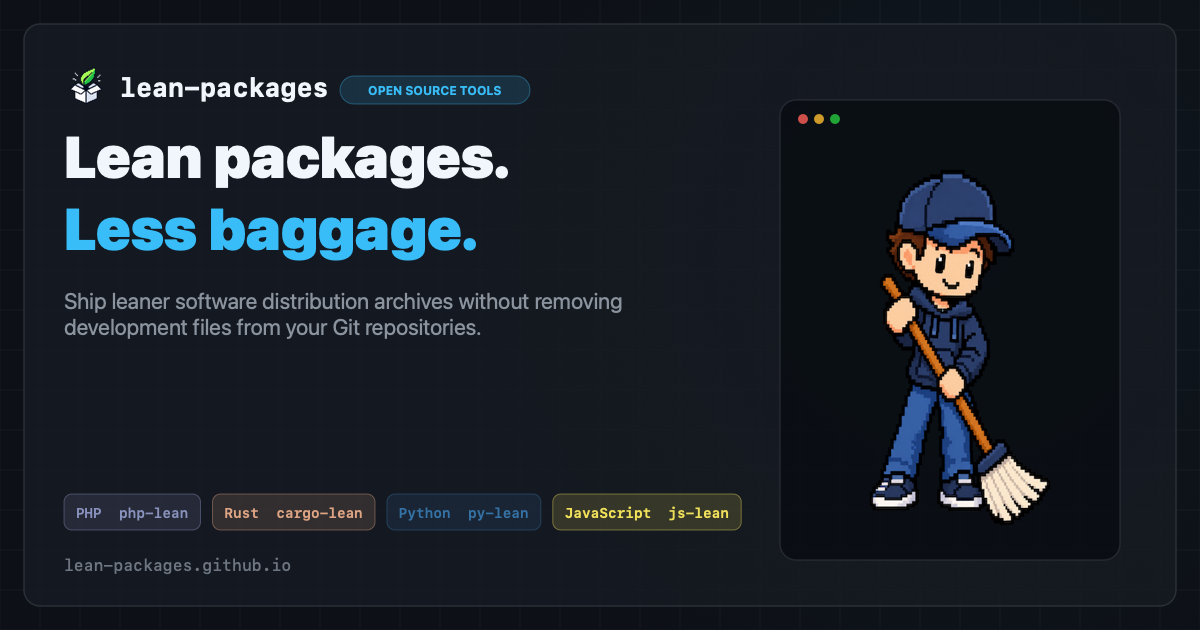
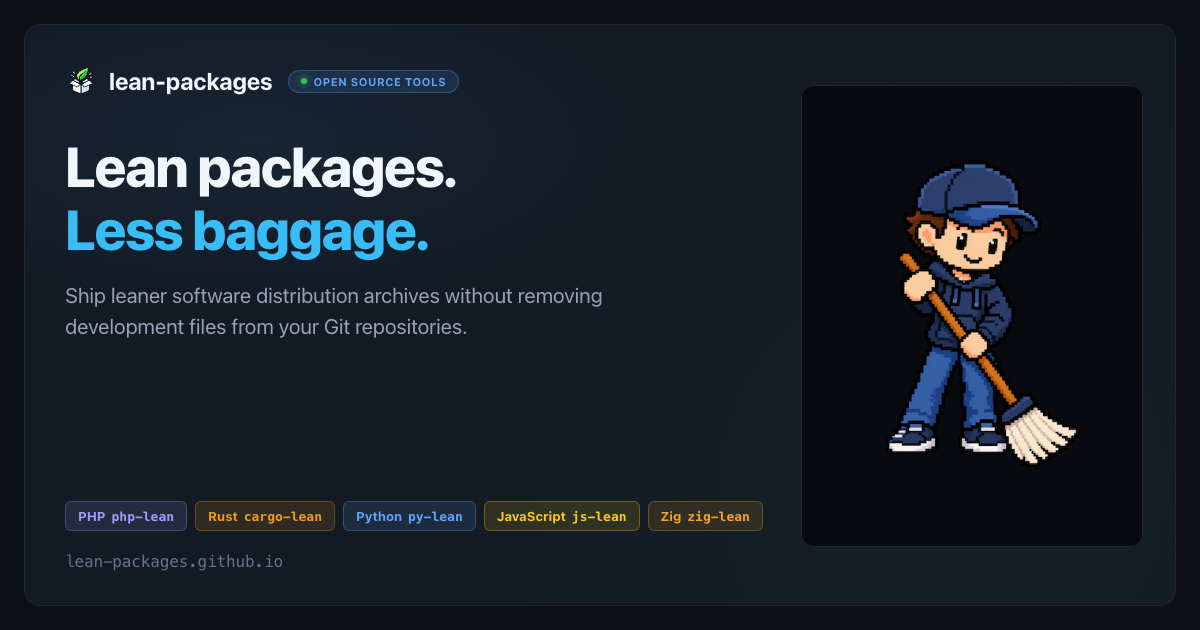
feat: add zig-lean

diff --git a/index.html b/index.html
@@ -6,7 +6,7 @@
   <!-- Primary Meta Tags -->
   <title>lean-packages — Less baggage. Leaner software distributions.</title>
   <meta name="title" content="lean-packages — Less baggage. Leaner software distributions.">
-  <meta name="description" content="A collection of open-source developer tools helping developers ship leaner software distribution archives across PHP, Rust, Python, and JavaScript.">
+  <meta name="description" content="A collection of open-source developer tools helping developers ship leaner software distribution archives across PHP, Rust, Python, JavaScript, and Zig.">
   <meta name="theme-color" content="#0d1117">
   <link rel="canonical" href="https://lean-packages.github.io/">
 
@@ -15,7 +15,7 @@
   <meta property="og:url" content="https://lean-packages.github.io/">
   <meta property="og:site_name" content="lean-packages">
   <meta property="og:title" content="lean-packages — Less baggage. Leaner software distributions.">
-  <meta property="og:description" content="A collection of open-source developer tools helping developers ship leaner software distribution archives across PHP, Rust, Python, and JavaScript.">
+  <meta property="og:description" content="A collection of open-source developer tools helping developers ship leaner software distribution archives across PHP, Rust, Python, JavaScript, and Zig.">
   <meta property="og:image" content="https://lean-packages.github.io/assets/og-image.png">
   <meta property="og:image:secure_url" content="https://lean-packages.github.io/assets/og-image.png">
   <meta property="og:image:type" content="image/png">
@@ -27,7 +27,7 @@
   <meta name="twitter:card" content="summary_large_image">
   <meta name="twitter:url" content="https://lean-packages.github.io/">
   <meta name="twitter:title" content="lean-packages — Less baggage. Leaner software distributions.">
-  <meta name="twitter:description" content="A collection of open-source developer tools helping developers ship leaner software distribution archives across PHP, Rust, Python, and JavaScript.">
+  <meta name="twitter:description" content="A collection of open-source developer tools helping developers ship leaner software distribution archives across PHP, Rust, Python, JavaScript, and Zig.">
   <meta name="twitter:image" content="https://lean-packages.github.io/assets/og-image.png">
   <meta name="twitter:image:alt" content="lean-packages — Open-source developer tools for lean software distribution archives">
 
@@ -152,6 +152,7 @@
                 <button class="terminal-tab" role="tab" aria-selected="false" data-term-target="term-rust">Rust</button>
                 <button class="terminal-tab" role="tab" aria-selected="false" data-term-target="term-python">Python</button>
                 <button class="terminal-tab" role="tab" aria-selected="false" data-term-target="term-javascript">JavaScript</button>
+                <button class="terminal-tab" role="tab" aria-selected="false" data-term-target="term-zig">Zig</button>
               </div>
             </div>
 
@@ -212,6 +213,21 @@
                 <div class="diff-item diff-remove">- vitest.config.ts</div>
               </div>
               <div class="terminal-line t-success"><span class="t-indicator">✓</span> Package archive size reduced: <span class="t-stat">3.2 MB → 210 KB (-93.4%)</span></div>
+              <div class="terminal-line"><span class="t-prompt">$</span> <span class="t-cursor">_</span></div>
+            </div>
+
+            <!-- Zig Demo -->
+            <div class="terminal-body font-mono terminal-panel" id="term-zig" role="tabpanel" aria-label="Zig zig-lean demonstration" hidden>
+              <div class="terminal-line"><span class="t-prompt">$</span> <span class="t-cmd">zig-lean lint</span> <span class="t-flag">--strict</span></div>
+              <div class="terminal-output t-muted">Scanning build.zig.zon .paths allowlist and package directory...</div>
+              <div class="terminal-line t-warn">Found 4 non-runtime items unexcluded from .paths:</div>
+              <div class="terminal-diff">
+                <div class="diff-item diff-remove">- .github/</div>
+                <div class="diff-item diff-remove">- tests/</div>
+                <div class="diff-item diff-remove">- zig-cache/</div>
+                <div class="diff-item diff-remove">- build.zig.zon.draft</div>
+              </div>
+              <div class="terminal-line t-success"><span class="t-indicator">✓</span> Package archive size reduced: <span class="t-stat">1.8 MB → 120 KB (-93.3%)</span></div>
               <div class="terminal-line"><span class="t-prompt">$</span> <span class="t-cursor">_</span></div>
             </div>
 
@@ -276,6 +292,17 @@
               <h3 class="eco-title">js-lean</h3>
               <p class="eco-desc">Audits <code>package.json</code> <code>files</code> allowlists and <code>.npmignore</code> files to maintain clean npm releases.</p>
               <div class="eco-target font-mono">package.json / .npmignore</div>
+            </div>
+          </a>
+
+          <a href="#project-zig" class="eco-card" data-lang="zig">
+            <div class="eco-icon-wrap zig-theme">
+              <span class="eco-lang-label">Zig</span>
+            </div>
+            <div class="eco-content">
+              <h3 class="eco-title">zig-lean</h3>
+              <p class="eco-desc">Audits and optimizes <code>.paths</code> in <code>build.zig.zon</code> to keep Zig package distributions minimal.</p>
+              <div class="eco-target font-mono">build.zig.zon</div>
             </div>
           </a>
         </div>
@@ -635,6 +662,53 @@
               </div>
             </div>
           </article>
+
+          <!-- Zig: zig-lean -->
+          <article class="project-card" id="project-zig" data-repo="zig-lean">
+            <div class="project-card-header">
+              <div class="project-meta">
+                <span class="lang-badge lang-zig">Zig</span>
+                <span class="version-badge font-mono" id="version-zig-lean" title="Latest version from GitHub API">
+                  <span class="v-text">v0.1.0</span>
+                  <span class="v-status" aria-hidden="true"></span>
+                </span>
+              </div>
+              <a href="https://github.com/lean-packages/zig-lean" class="repo-link" target="_blank" rel="noopener noreferrer" aria-label="zig-lean on GitHub">
+                <span class="repo-name">lean-packages/zig-lean</span>
+                <svg class="icon icon-external" viewBox="0 0 16 16" width="14" height="14" fill="currentColor" aria-hidden="true">
+                  <path fill-rule="evenodd" d="M8.636 3.5a.5.5 0 0 0-.5-.5H1.5A1.5 1.5 0 0 0 0 4.5v10A1.5 1.5 0 0 0 1.5 16h10a1.5 1.5 0 0 0 1.5-1.5V7.864a.5.5 0 0 0-1 0V14.5a.5.5 0 0 1-.5.5h-10a.5.5 0 0 1-.5-.5v-10a.5.5 0 0 1 .5-.5h6.636a.5.5 0 0 0 .5-.5z"/>
+                  <path fill-rule="evenodd" d="M16 .5a.5.5 0 0 0-.5-.5h-5a.5.5 0 0 0 0 1h3.793L6.146 9.146a.5.5 0 1 0 .708.708L15 1.707V5.5a.5.5 0 0 0 1 0v-5z"/>
+                </svg>
+              </a>
+            </div>
+
+            <div class="project-card-body">
+              <h3 class="project-title">zig-lean</h3>
+              <p class="project-description">
+                A CLI tool and library for validating, auditing, and optimizing <code>build.zig.zon</code> package path allowlists to prevent repository-only files from inflating published Zig package archives.
+              </p>
+
+              <!-- Dynamic Install Tabs -->
+              <div class="install-container">
+                <div class="install-tabs" role="tablist" aria-label="Installation options for zig-lean">
+                  <button class="tab-btn active" role="tab" aria-selected="true" data-cmd="cargo install zig-lean">crates.io</button>
+                  <button class="tab-btn" role="tab" aria-selected="false" data-cmd="cargo install --git https://github.com/lean-packages/zig-lean">Git Source</button>
+                </div>
+                <div class="install-box">
+                  <code class="font-mono install-code" id="cmd-zig-lean">cargo install zig-lean</code>
+                  <button class="copy-btn" aria-label="Copy installation command" title="Copy to clipboard" data-copy-target="cmd-zig-lean">
+                    <svg class="icon icon-copy" viewBox="0 0 16 16" width="14" height="14" fill="currentColor" aria-hidden="true">
+                      <path d="M0 6.75C0 5.784.784 5 1.75 5h1.5a.75.75 0 0 1 0 1.5h-1.5a.25.25 0 0 0-.25.25v7.5c0 .138.112.25.25.25h7.5a.25.25 0 0 0 .25-.25v-1.5a.75.75 0 0 1 1.5 0v1.5A1.75 1.75 0 0 1 9.25 16h-7.5A1.75 1.75 0 0 1 0 14.25v-7.5z"/>
+                      <path d="M5 1.75C5 .784 5.784 0 6.75 0h7.5C15.216 0 16 .784 16 1.75v7.5A1.75 1.75 0 0 1 14.25 11h-7.5A1.75 1.75 0 0 1 5 9.25v-7.5zm1.75-.25a.25.25 0 0 0-.25.25v7.5c0 .138.112.25.25.25h7.5a.25.25 0 0 0 .25-.25v-7.5a.25.25 0 0 0-.25-.25h-7.5z"/>
+                    </svg>
+                    <svg class="icon icon-check" viewBox="0 0 16 16" width="14" height="14" fill="currentColor" aria-hidden="true">
+                      <path fill-rule="evenodd" d="M13.78 4.22a.75.75 0 0 1 0 1.06l-7.25 7.25a.75.75 0 0 1-1.06 0L2.22 9.28a.751.751 0 0 1 .018-1.042.751.751 0 0 1 1.042-.018L6 10.94l6.72-6.72a.75.75 0 0 1 1.06 0z"/>
+                    </svg>
+                  </button>
+                </div>
+              </div>
+            </div>
+          </article>
         </div>
 
         <!-- Companion Utilities Note -->
@@ -708,6 +782,10 @@
                 <li class="faq-lang-item">
                   <span class="lang-badge lang-js">JavaScript</span>
                   <span class="faq-lang-desc">Uses npm's <code>files</code> allowlist in <code>package.json</code> or <code>.npmignore</code> rules to control which files are included in published packages.</span>
+                </li>
+                <li class="faq-lang-item">
+                  <span class="lang-badge lang-zig">Zig</span>
+                  <span class="faq-lang-desc">Uses the <code>.paths</code> allowlist in <code>build.zig.zon</code> to control which files and directories are packaged in distribution archives.</span>
                 </li>
               </ul>
             </div>

diff --git a/assets/css/style.css b/assets/css/style.css
@@ -39,6 +39,8 @@
   --lang-python-bg: rgba(96, 165, 250, 0.12);
   --lang-js: #facc15;
   --lang-js-bg: rgba(250, 204, 21, 0.12);
+  --lang-zig: #f7a41d;
+  --lang-zig-bg: rgba(247, 164, 29, 0.12);
 
   /* Typography */
   --font-sans: -apple-system, BlinkMacSystemFont, "Segoe UI", "Noto Sans", Helvetica, Arial, sans-serif, "Apple Color Emoji", "Segoe UI Emoji";
@@ -605,6 +607,18 @@ code {
   border-color: rgba(250, 204, 21, 0.4);
 }
 
+.terminal-tab[data-term-target="term-zig"]:hover {
+  color: var(--lang-zig);
+  border-color: rgba(247, 164, 29, 0.3);
+  background-color: rgba(247, 164, 29, 0.08);
+}
+
+.terminal-tab[data-term-target="term-zig"].active {
+  color: var(--lang-zig);
+  background-color: var(--lang-zig-bg);
+  border-color: rgba(247, 164, 29, 0.4);
+}
+
 .terminal-panel {
   display: none;
 }
@@ -752,6 +766,7 @@ code {
 .rust-theme { background-color: var(--lang-rust-bg); color: var(--lang-rust); border: 1px solid rgba(243, 156, 18, 0.3); }
 .python-theme { background-color: var(--lang-python-bg); color: var(--lang-python); border: 1px solid rgba(96, 165, 250, 0.3); }
 .js-theme { background-color: var(--lang-js-bg); color: var(--lang-js); border: 1px solid rgba(250, 204, 21, 0.3); }
+.zig-theme { background-color: var(--lang-zig-bg); color: var(--lang-zig); border: 1px solid rgba(247, 164, 29, 0.3); }
 
 .eco-content {
   display: flex;
@@ -940,6 +955,7 @@ code {
 .lang-rust { background-color: var(--lang-rust-bg); color: var(--lang-rust); border: 1px solid rgba(243, 156, 18, 0.3); }
 .lang-python { background-color: var(--lang-python-bg); color: var(--lang-python); border: 1px solid rgba(96, 165, 250, 0.3); }
 .lang-js { background-color: var(--lang-js-bg); color: var(--lang-js); border: 1px solid rgba(250, 204, 21, 0.3); }
+.lang-zig { background-color: var(--lang-zig-bg); color: var(--lang-zig); border: 1px solid rgba(247, 164, 29, 0.3); }
 
 .version-badge {
   font-size: 0.75rem;

diff --git a/assets/js/main.js b/assets/js/main.js
@@ -117,7 +117,7 @@ function initTerminalTabs() {
  * Uses sessionStorage cache to prevent API rate limiting.
  */
 function initVersionFetcher() {
-  const repos = ['php-lean', 'cargo-lean', 'py-lean', 'js-lean'];
+  const repos = ['php-lean', 'cargo-lean', 'py-lean', 'js-lean', 'zig-lean'];
   const CACHE_KEY_PREFIX = 'lean_pkg_ver_';
   const CACHE_TTL = 3600 * 1000; // 1 hour
 

diff --git a/README.md b/README.md
@@ -4,7 +4,7 @@ Official website and landing page for the **lean-packages** GitHub organization 
 
 ## About
 
-`lean-packages` is a collection of open-source developer tools helping software authors ship leaner distribution archives across multiple programming languages (PHP, Rust, Python, JavaScript/TypeScript).
+`lean-packages` is a collection of open-source developer tools helping software authors ship leaner distribution archives across multiple programming languages (PHP, Rust, Python, JavaScript/TypeScript, Zig).
 
 ## Ecosystem Projects
 
@@ -12,6 +12,7 @@ Official website and landing page for the **lean-packages** GitHub organization 
 - **[cargo-lean](https://github.com/lean-packages/cargo-lean)** — Validates and manages `Cargo.toml` `[package].exclude` lists for Rust crates.
 - **[py-lean](https://github.com/lean-packages/py-lean)** — Detects and fixes missing `source-exclude` patterns in `pyproject.toml` for Python packages.
 - **[js-lean](https://github.com/lean-packages/js-lean)** — Audits and enforces lean packaging rules (`package.json` `files` and `.npmignore`) for npm packages.
+- **[zig-lean](https://github.com/lean-packages/zig-lean)** — Audits and optimizes `build.zig.zon` `.paths` allowlists for Zig packages.
 
 ## Tech Stack & Architecture
 
